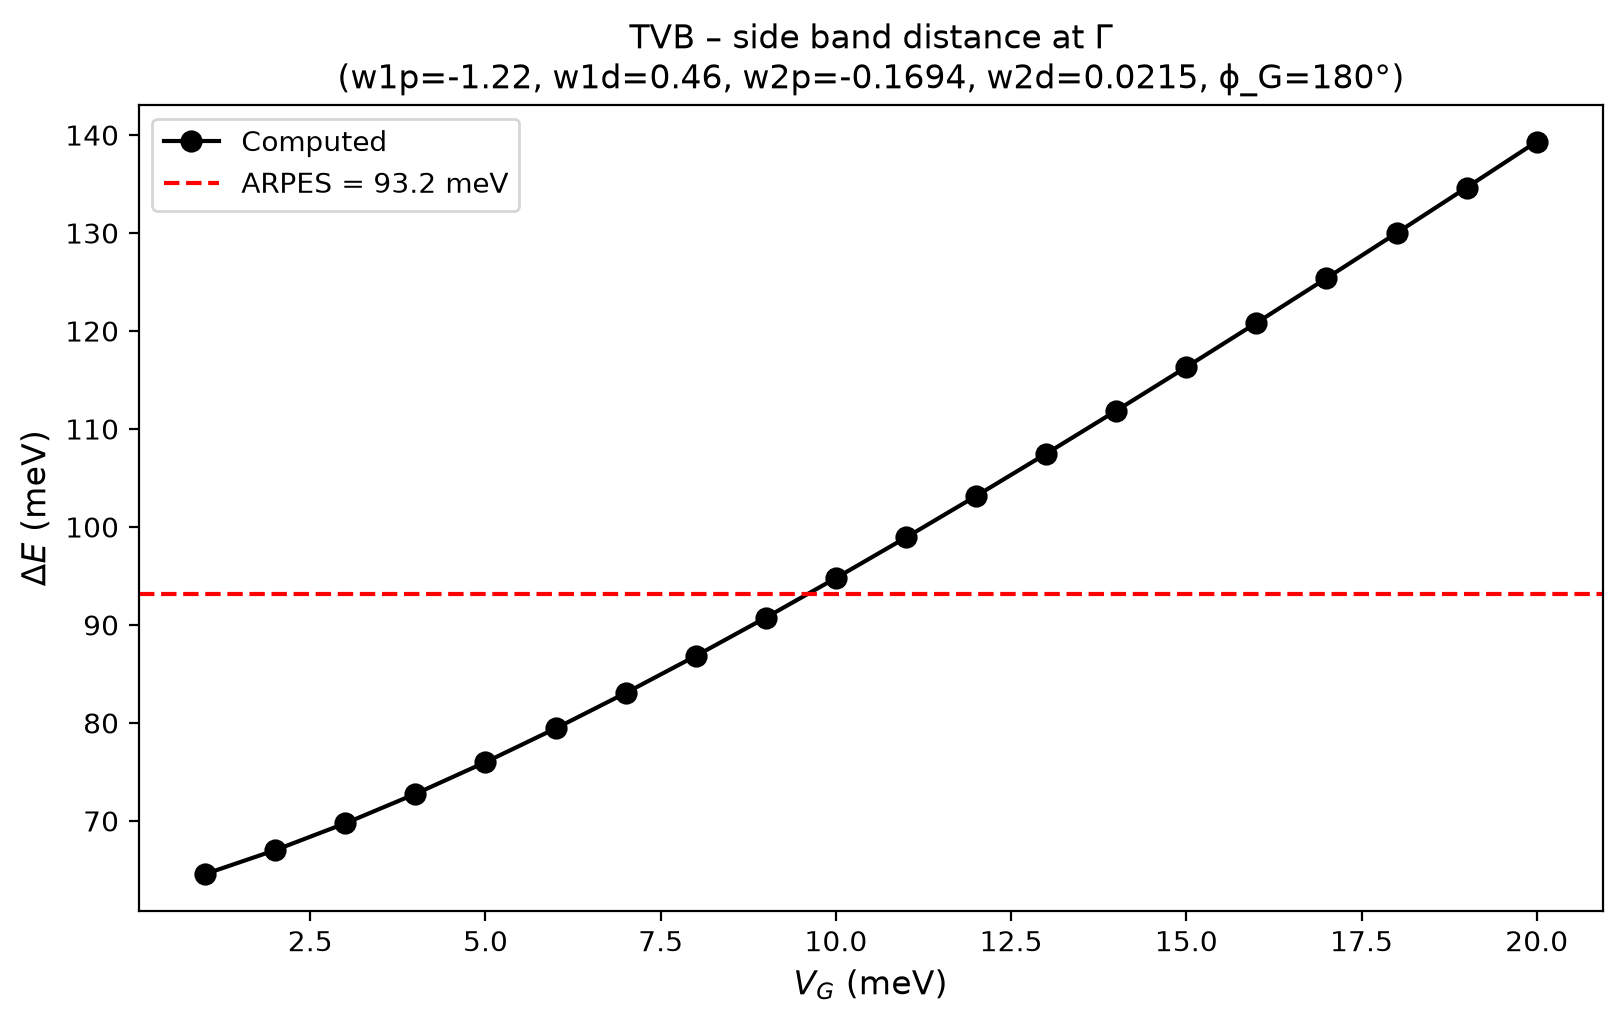
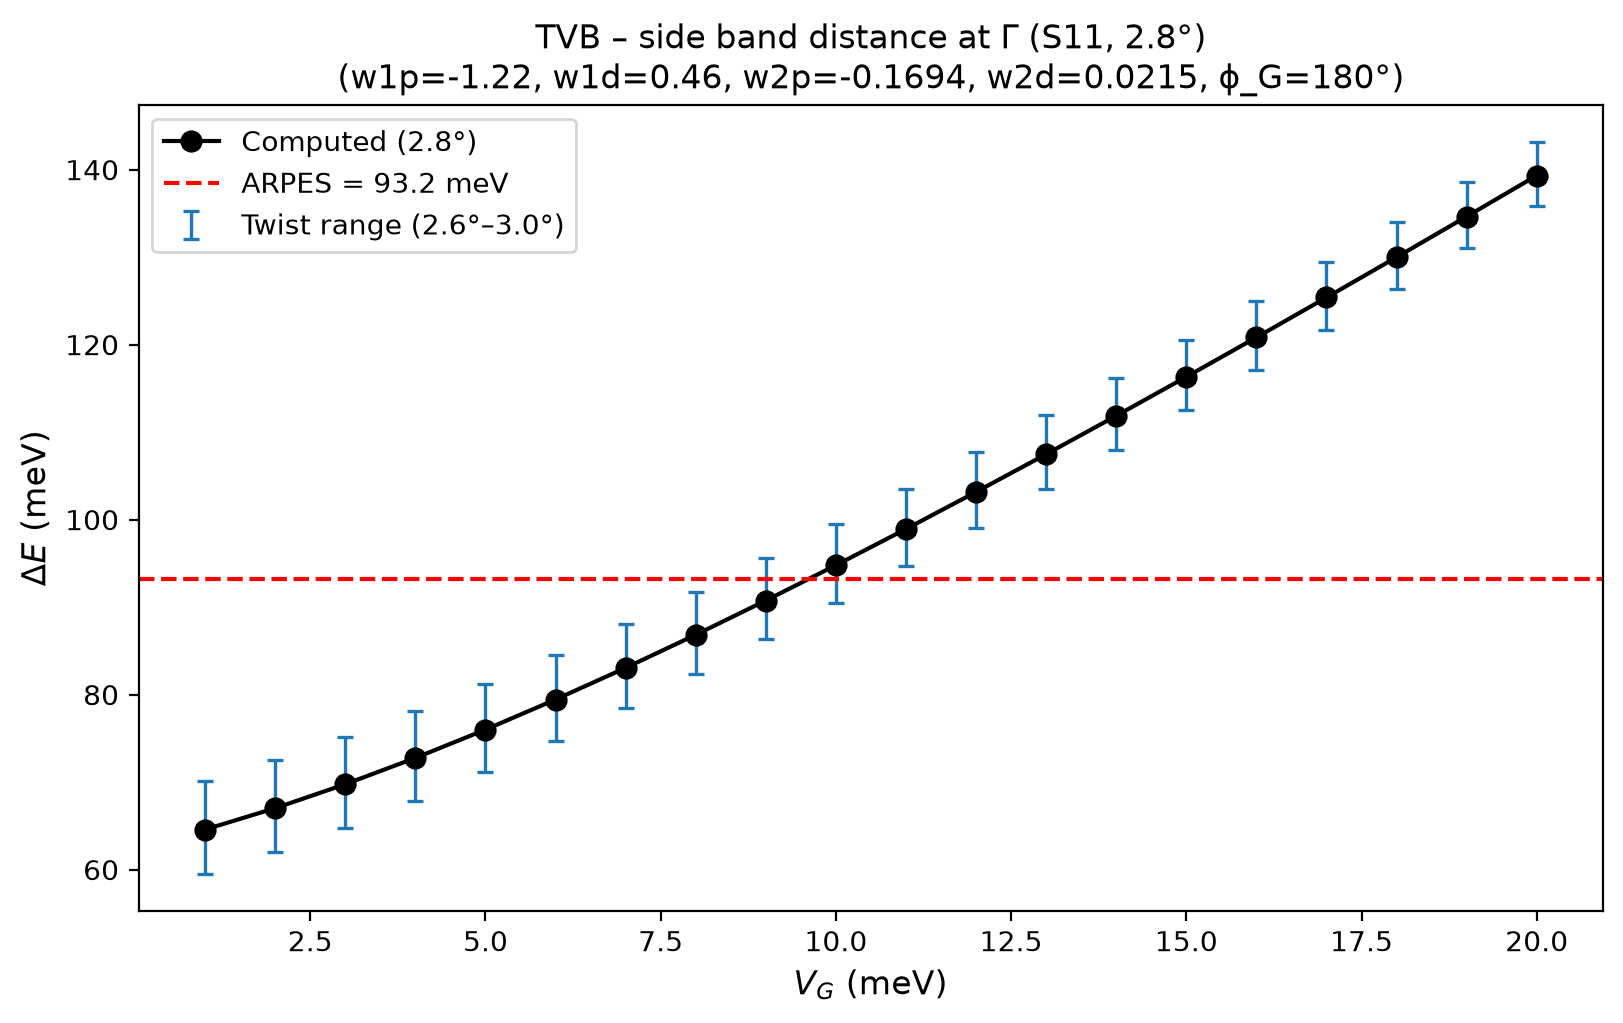
Included twist angle uncertainty in edc vs Vg plot

diff --git a/scripts/plotsPaper/plot_edc_vs_V.py b/scripts/plotsPaper/plot_edc_vs_V.py
@@ -5,13 +5,14 @@ Reads the .npz produced by scripts/export_edc_vs_V.py.
 
 Produces:
   edc_vs_V_<sample>_phiG<phase>.png -- TVB-to-side-band peak distance (meV)
-                                      vs V_G (meV), with ARPES reference line.
+                                      vs V_G (meV), with ARPES reference line
+                                      and optional twist-angle error bars.
 
 Usage:
     python plot_edc_vs_V.py <data.npz>
     python plot_edc_vs_V.py data.npz --output-dir ./figures
 """
-import sys
+import argparse
 from pathlib import Path
 
 import numpy as np
@@ -20,24 +21,127 @@ matplotlib.use("Agg")
 import matplotlib.pyplot as plt
 
 
+TWIST_ENDPOINTS = {
+    "S11": (("S11_m26", 2.6), ("S11_p30", 3.0)),
+    "S3": (("S3_m16", 1.6), ("S3_p20", 2.0)),
+}
+
+CENTRAL_TWIST_ANGLES = {"S11": 2.8, "S3": 1.8}
+
+
+def _parse_args():
+    parser = argparse.ArgumentParser(description=__doc__)
+    parser.add_argument("data", type=Path, help="EDC-vs-Vg data exported to .npz")
+    parser.add_argument(
+        "--output-dir",
+        type=Path,
+        default=Path(__file__).resolve().parent / "figures",
+    )
+    parser.add_argument(
+        "--twist-low-data",
+        type=Path,
+        help="Optional lower-angle endpoint data (auto-discovered beside the central file)",
+    )
+    parser.add_argument(
+        "--twist-high-data",
+        type=Path,
+        help="Optional higher-angle endpoint data (auto-discovered beside the central file)",
+    )
+    args = parser.parse_args()
+    if (args.twist_low_data is None) != (args.twist_high_data is None):
+        parser.error("--twist-low-data and --twist-high-data must be provided together")
+    return args
+
+
+def _load_npz(path):
+    with np.load(path, allow_pickle=True) as archive:
+        return {key: np.array(archive[key]) for key in archive.files}
+
+
+def _infer_twist_data_path(data_path, variant_sample, central_sample):
+    """Build the matching endpoint filename used by export_edc_vs_V.py."""
+    name = data_path.name
+    central_prefix = f"edc_vs_V_{central_sample}_"
+    generic_prefix = "edc_vs_V_"
+    if name.startswith(central_prefix):
+        suffix = name[len(central_prefix):]
+    elif name.startswith(generic_prefix):
+        # Also support older S11 exports whose filename omits the sample name.
+        suffix = name[len(generic_prefix):]
+    else:
+        return None
+    return data_path.with_name(f"edc_vs_V_{variant_sample}_{suffix}")
+
+
+def _load_twist_endpoints(args, data_path, sample, central_data):
+    if sample not in TWIST_ENDPOINTS:
+        if args.twist_low_data is not None:
+            raise ValueError("Twist endpoint data is configured for S11 and S3 only.")
+        return None
+
+    endpoint_specs = TWIST_ENDPOINTS[sample]
+    if args.twist_low_data is not None:
+        paths = (args.twist_low_data, args.twist_high_data)
+    else:
+        paths = tuple(
+            _infer_twist_data_path(data_path, variant_sample, sample)
+            for variant_sample, _ in endpoint_specs
+        )
+
+    if any(path is None for path in paths):
+        print("Twist error bars omitted: could not infer endpoint data filenames.")
+        return None
+
+    present = [path.is_file() for path in paths]
+    if not any(present):
+        endpoint_samples = " and ".join(spec[0] for spec in endpoint_specs)
+        endpoint_range = f"{endpoint_specs[0][1]:.1f}°–{endpoint_specs[1][1]:.1f}°"
+        print(
+            "Twist error bars omitted: endpoint data not found. Export matching "
+            f"{endpoint_samples} data to plot the {endpoint_range} range."
+        )
+        return None
+    if not all(present):
+        missing = ", ".join(str(path) for path, exists in zip(paths, present) if not exists)
+        raise FileNotFoundError(f"Both twist endpoints are required; missing: {missing}")
+
+    endpoint_distances = []
+    for path, (expected_sample, expected_theta) in zip(paths, endpoint_specs):
+        endpoint_data = _load_npz(path)
+        endpoint_sample = str(endpoint_data.get("sample", np.array("")).item())
+        if endpoint_sample != expected_sample:
+            raise ValueError(
+                f"{path} contains sample {endpoint_sample!r}; expected {expected_sample!r}."
+            )
+        if "theta_deg" in endpoint_data and not np.isclose(
+            float(endpoint_data["theta_deg"]), expected_theta
+        ):
+            raise ValueError(
+                f"{path} has theta={float(endpoint_data['theta_deg']):g}°; "
+                f"expected {expected_theta:g}°."
+            )
+        if not np.allclose(
+            endpoint_data["Vg_vals_meV"], central_data["Vg_vals_meV"], rtol=0.0, atol=1e-9
+        ):
+            raise ValueError(f"{path} does not use the same Vg values as {data_path}.")
+        if endpoint_data["distances_meV"].shape != central_data["distances_meV"].shape:
+            raise ValueError(f"{path} has a different number of EDC values from {data_path}.")
+        for key in (
+            "interlayer_w1p", "interlayer_w1d", "interlayer_w2p", "interlayer_w2d", "phiG_deg"
+        ):
+            if not np.isclose(float(endpoint_data[key]), float(central_data[key])):
+                raise ValueError(f"{path} has a different {key} from {data_path}.")
+        endpoint_distances.append(endpoint_data["distances_meV"])
+
+    return endpoint_distances
+
+
 def main():
-    args = sys.argv[1:]
-    if not args:
-        print("Usage: python plot_edc_vs_V.py <data.npz> [--output-dir <dir>]")
-        sys.exit(1)
+    args = _parse_args()
+    data_path = args.data
+    output_dir = args.output_dir
 
-    data_path = Path(args[0])
-    output_dir = Path(__file__).resolve().parent / "figures"
-
-    i = 1
-    while i < len(args):
-        if args[i] == "--output-dir" and i + 1 < len(args):
-            output_dir = Path(args[i + 1])
-            i += 2
-        else:
-            i += 1
-
-    d = np.load(data_path, allow_pickle=True)
+    d = _load_npz(data_path)
 
     Vg_vals_meV = d["Vg_vals_meV"]
     distances_meV = d["distances_meV"]
@@ -47,22 +151,56 @@ def main():
     w2p = float(d["interlayer_w2p"])
     w2d = float(d["interlayer_w2d"])
     phiG_deg = float(d["phiG_deg"])
-    sample = str(d["sample"]) if "sample" in d.files else (
+    sample = str(d["sample"].item()) if "sample" in d else (
         "S3" if "S3" in data_path.name else "S11"
     )
+    theta_deg = (
+        float(d["theta_deg"])
+        if "theta_deg" in d
+        else CENTRAL_TWIST_ANGLES.get(sample)
+    )
+    endpoint_distances = _load_twist_endpoints(args, data_path, sample, d)
 
     output_dir.mkdir(parents=True, exist_ok=True)
 
     fig, ax = plt.subplots(figsize=(8, 5), constrained_layout=True)
 
-    ax.plot(Vg_vals_meV, distances_meV, "ko-", lw=1.5, markersize=7, label="Computed")
+    yerr = None
+    if endpoint_distances is not None:
+        # Show the full interval between the two endpoint curves, including
+        # cases where both endpoints fall on the same side of the central curve.
+        lower_endpoint = np.minimum(endpoint_distances[0], endpoint_distances[1])
+        upper_endpoint = np.maximum(endpoint_distances[0], endpoint_distances[1])
+        yerr = np.vstack((
+            np.maximum(distances_meV - lower_endpoint, 0.0),
+            np.maximum(upper_endpoint - distances_meV, 0.0),
+        ))
+
+    computed_label = f"Computed ({theta_deg:.1f}°)" if theta_deg is not None else "Computed"
+    ax.plot(Vg_vals_meV, distances_meV, "ko-", lw=1.5, markersize=7, label=computed_label, zorder=2)
+    if yerr is not None:
+        endpoint_specs = TWIST_ENDPOINTS[sample]
+        twist_range = f"{endpoint_specs[0][1]:.1f}°–{endpoint_specs[1][1]:.1f}°"
+        ax.errorbar(
+            Vg_vals_meV,
+            distances_meV,
+            yerr=yerr,
+            fmt="none",
+            ecolor="tab:blue",
+            elinewidth=1.2,
+            capsize=3,
+            capthick=1.2,
+            label=f"Twist range ({twist_range})",
+            zorder=1,
+        )
     ax.axhline(arpes_distance_meV, color="red", lw=1.5, ls="--",
                label=f"ARPES = {arpes_distance_meV:.1f} meV")
 
     ax.set_xlabel(r"$V_G$ (meV)", fontsize=12)
     ax.set_ylabel(r"$\Delta E$ (meV)", fontsize=12)
+    theta_label = f", {theta_deg:.1f}°" if theta_deg is not None else ""
     ax.set_title(
-        f"TVB \u2013 side band distance at \u0393\n"
+        f"TVB \u2013 side band distance at \u0393 ({sample}{theta_label})\n"
         f"(w1p={w1p}, w1d={w1d}, w2p={w2p}, w2d={w2d}, "
         f"\u03d5_G={phiG_deg:.0f}\u00b0)",
         fontsize=12,

diff --git a/scripts/export_edc_vs_V.py b/scripts/export_edc_vs_V.py
@@ -220,6 +220,7 @@ def main():
         interlayer_w2p=w2p,
         interlayer_w2d=w2d,
         phiG_deg=phiG_deg,
+        theta_deg=theta,
         n_shells=N_SHELLS,
     )
     print(f"Exported: {out_fn}")

diff --git a/scripts/plotsPaper/README.md b/scripts/plotsPaper/README.md
@@ -61,11 +61,22 @@ The three potential-indexed sets are stored as:
 
 ```bash
 # Step 3: Export EDC vs V_G
-python scripts/export_edc_vs_V.py --sample S3 --w1p -1.2 --w1d 0.455 --phiG 175
-
-# S11 EDC-vs-V_G at phiG = 180 degrees, using the same couplings as above
 python scripts/export_edc_vs_V.py --sample S11 --phiG 180 \
     --w1p -1.220 --w1d 0.460 --w2p -0.1694 --w2d 0.0215
+
+# S11 twist-angle endpoints for the error bars (2.8° ± 0.2°)
+python scripts/export_edc_vs_V.py --sample S11_m26 --phiG 180 \
+    --w1p -1.220 --w1d 0.460 --w2p -0.1694 --w2d 0.0215
+python scripts/export_edc_vs_V.py --sample S11_p30 --phiG 180 \
+    --w1p -1.220 --w1d 0.460 --w2p -0.1694 --w2d 0.0215
+
+# S3 twist-angle endpoints for the error bars (1.8° ± 0.2°)
+python scripts/export_edc_vs_V.py --sample S3_m16 --phiG 180 \
+    --w1p -1.200 --w1d 0.455 --w2p -0.1694 --w2d 0.0215
+python scripts/export_edc_vs_V.py --sample S3_p20 --phiG 180 \
+    --w1p -1.200 --w1d 0.455 --w2p -0.1694 --w2d 0.0215
+
+python scripts/export_edc_vs_V.py --sample S3 --w1p -1.2 --w1d 0.455 --phiG 175
 
 # S3 EDC-vs-V_G at phiG = 180 degrees
 python scripts/export_edc_vs_V.py --sample S3 --phiG 180 \
@@ -75,6 +86,10 @@ python scripts/export_edc_vs_V.py --sample S3 --phiG 180 \
 This is a separate observable: `export_edc_vs_V.py` sweeps V_G from 1 to 20 meV
 and exports one TVB-to-side-band distance per V_G, rather than the three full
 EDC intensity profiles saved by `export_moire_bands.py`.
+For S11 and S3, the plotter auto-loads the matching twist endpoint exports
+(`S11_m26`/`S11_p30` or `S3_m16`/`S3_p20`) and draws an asymmetric error bar
+at each V_G spanning the endpoint values around the central curve. Endpoint
+exports must use the same V_G grid, couplings, and phase as the central export.
 
 ```bash
 # Step 4: Export LDOS
@@ -119,10 +134,9 @@ python plot_distance_w_heatmap.py data/edc_gamma_S3_2a_S3_Vg_11.5meV_phiG_175deg
 python plot_edc_profile.py        data/edc_gamma_S3_2a_S3_Vg_11.5meV_phiG_175deg.npz
 
 # EDC vs V and moire bands (moire plot command also saves all exported Gamma EDC profiles)
-python plot_edc_vs_V.py data/edc_vs_V_n20_Vg1-20.npz       # S11
+python plot_edc_vs_V.py data/edc_vs_V_S11_n20_Vg1-20_phiG180.npz # S11 with 2.6°–3.0° twist error bars
 python plot_edc_vs_V.py data/edc_vs_V_S3_n20_Vg1-20.npz    # S3
-python plot_edc_vs_V.py data/edc_vs_V_S11_n20_Vg1-20_phiG180.npz # S11: phiG=180
-python plot_edc_vs_V.py data/edc_vs_V_S3_n20_Vg1-20_phiG180.npz # S3: phiG=180
+python plot_edc_vs_V.py data/edc_vs_V_S3_n20_Vg1-20_phiG180.npz # S3 with 1.6°–2.0° twist error bars
 # Outputs edc_vs_V_S11_phiG180.png
 python plot_moire_bands.py data/moire_bands_S11_k301_n2_Vg0_10.5_21_phiG180.npz # S11: phiG=180
 python plot_moire_bands.py data/moire_bands_S3_k301_n2_Vg0_11.5_23_phiG180.npz # S3: phiG=180
